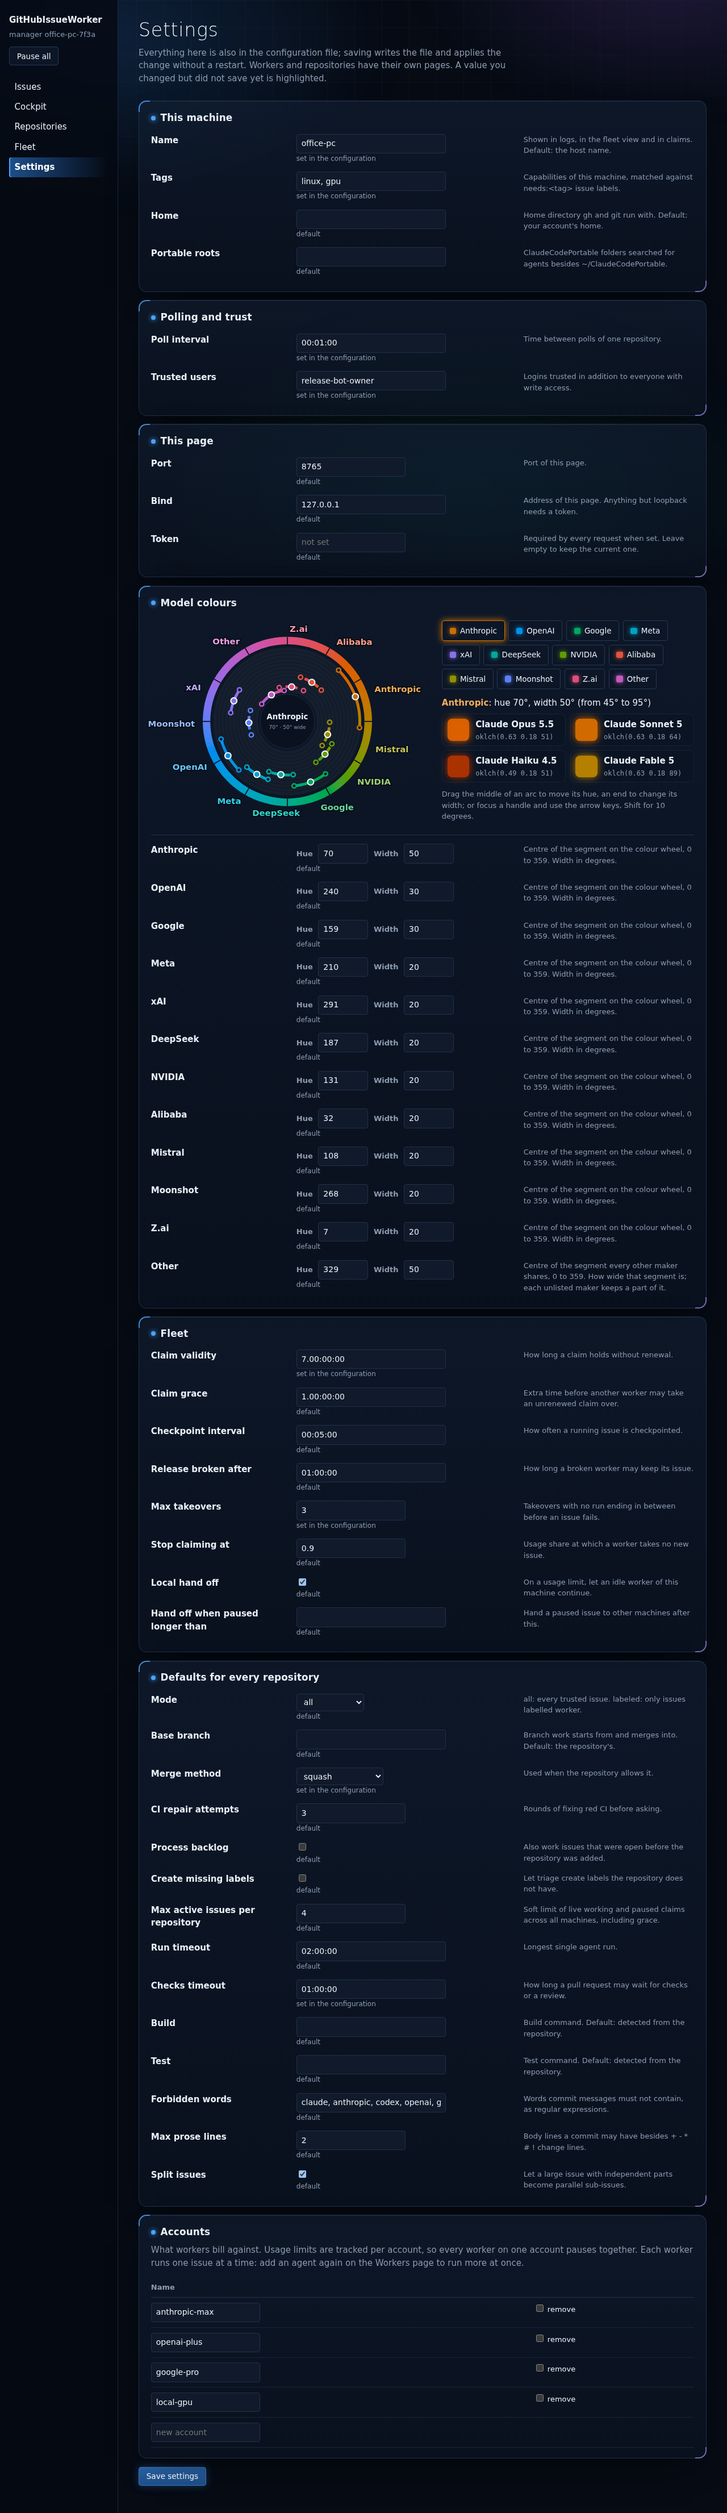
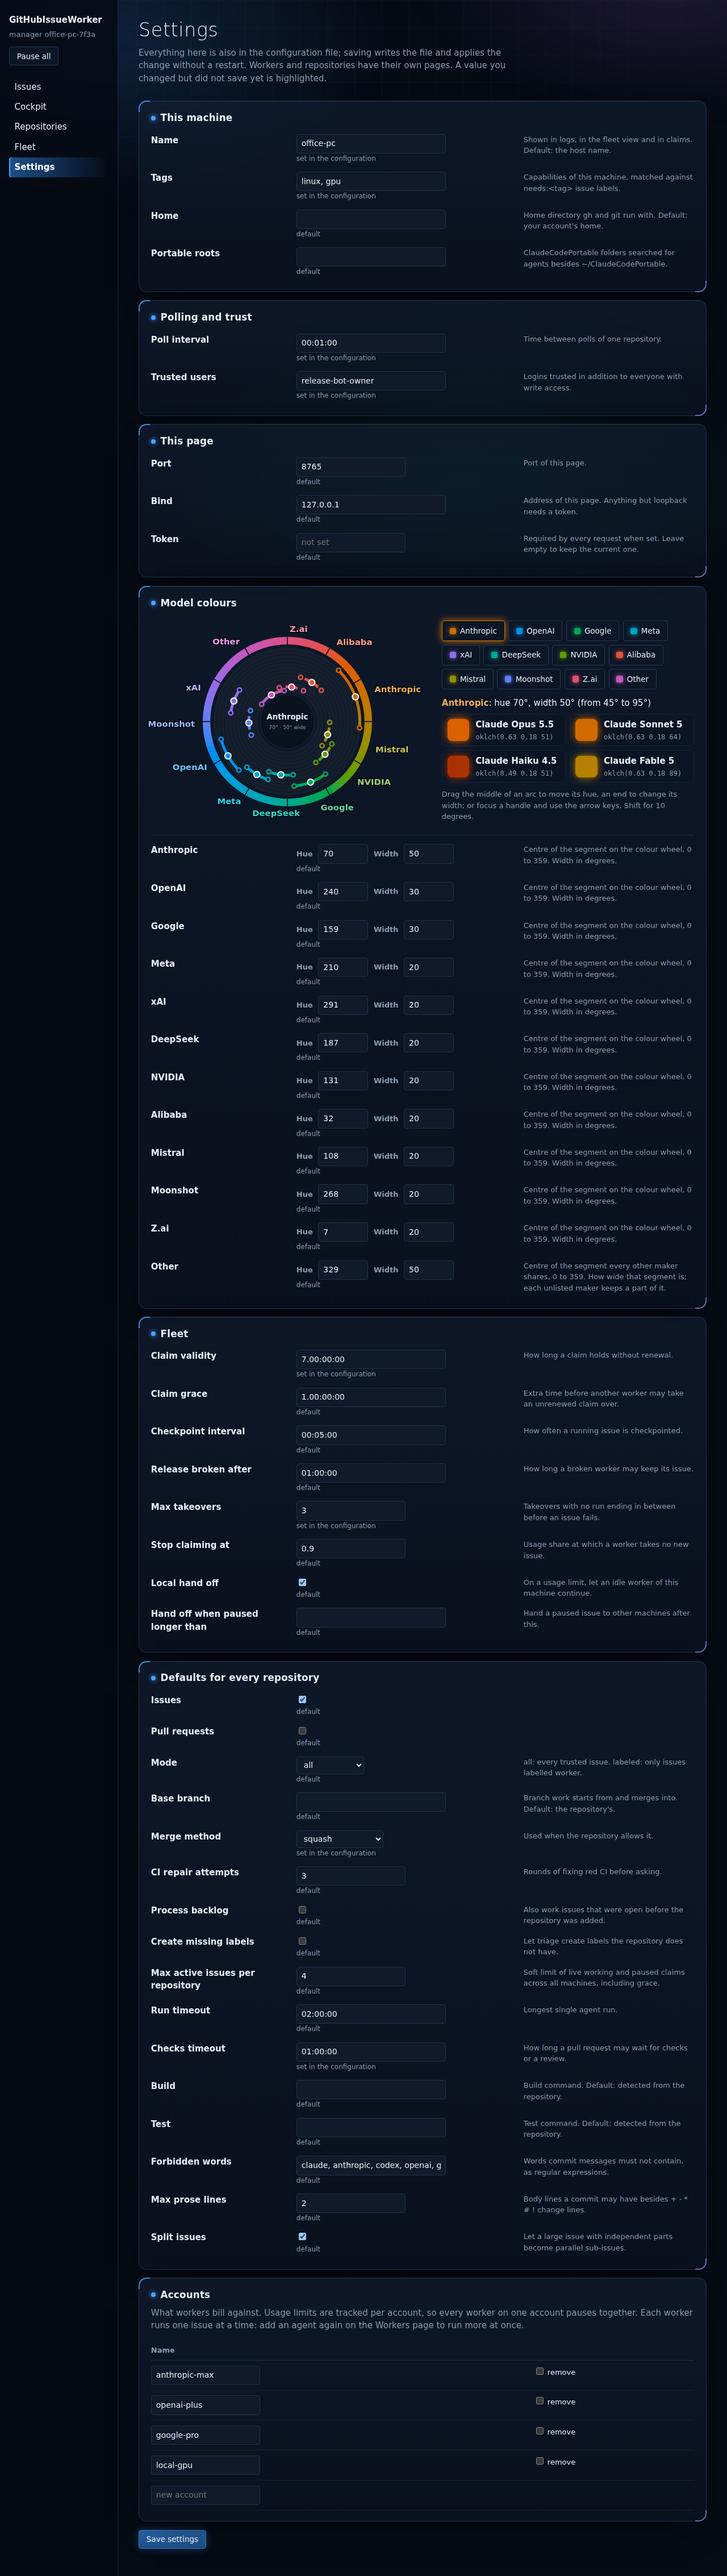
+ Switch issues and pull requests on or off per repository (#133)
+ issues (default true) and pullRequests (default false) under defaults and per repository (F16.1)
+ issues: false ignores issue events; work this manager already holds still finishes
* the watch carries both switches and an applied configuration updates them live
Refs #129

Changed region(s): [[0.1875, 0.0, 0.9375, 0.9984], [0.7188, 0.0312, 0.9375, 0.156], [0.0, 0.0, 0.0938, 0.0936]]

diff --git a/tests/test_wiring.py b/tests/test_wiring.py
@@ -965,3 +965,35 @@ def test_given_an_agent_that_updated_itself_when_workers_refresh_then_its_new_ve
     answer[0] = "2.1.332 (Claude Code)"
     runtime.refresh_auth()
     assert runtime.slots[0].version == "2.1.332 (Claude Code)"
+
+
+@pytest.mark.parametrize(
+    ("defaults", "override", "expected"),
+    [({}, None, True), ({"issues": False}, None, False), ({"issues": False}, True, True)],
+)
+def test_given_the_issues_switch_when_watching_then_the_override_wins(
+    tmp_path: Path, defaults: dict[str, bool], override: bool | None, expected: bool
+) -> None:
+    from tests.application.test_manager import Fixture
+
+    repository: dict[str, object] = {"repository": "o/r"}
+    if override is not None:
+        repository["issues"] = override
+    config = parse(json.dumps({"defaults": defaults, "repositories": [repository]}))
+    runtime = Runtime(
+        config=config,
+        home=tmp_path,
+        api=SimpleNamespace(clock=FakeClock(datetime(2026, 10, 30, tzinfo=UTC))),  # type: ignore[arg-type]
+        state=JsonStateStore(tmp_path / "state.json"),
+        manager_id="m",
+        workspace=FakeWorkspace(tmp_path),  # type: ignore[arg-type]
+    )
+    assert runtime.watch(config.repositories[0]).issues is expected
+
+    flipped = parse(
+        json.dumps({"defaults": {"issues": not expected}, "repositories": [{"repository": "o/r"}]})
+    )
+    f = Fixture([])
+    f.manager.repositories = [runtime.watches["o/r"]]
+    runtime.apply(flipped, f.manager)
+    assert runtime.watches["o/r"].issues is (not expected)

diff --git a/src/github_issue_worker/wiring.py b/src/github_issue_worker/wiring.py
@@ -273,6 +273,11 @@ def worker_version(worker: WorkerSettings, home: Path) -> str:
     return version_of(resolve(worker, home))
 
 
+def _switch(override: bool | None, default: bool) -> bool:
+    """A repository's own setting, else the default's (F16.1)."""
+    return default if override is None else override
+
+
 @dataclass
 class Runtime:
     config: Configuration
@@ -311,6 +316,8 @@ class Runtime:
                 coordinator=coordinator,
                 store=store,
                 mode=settings.mode or self.config.defaults.mode,
+                issues=_switch(settings.issues, self.config.defaults.issues),
+                pull_requests=_switch(settings.pull_requests, self.config.defaults.pull_requests),
                 process_backlog=bool(
                     settings.process_backlog
                     if settings.process_backlog is not None
@@ -541,6 +548,8 @@ class Runtime:
                 watch = self.watches[name]
                 watch.settings = repository_run(config, settings)
                 watch.mode = settings.mode or config.defaults.mode
+                watch.issues = _switch(settings.issues, config.defaults.issues)
+                watch.pull_requests = _switch(settings.pull_requests, config.defaults.pull_requests)
                 policy = replace(watch.coordinator.policy, max_takeovers=config.fleet.max_takeovers)
                 watch.coordinator = replace(watch.coordinator, policy=policy)
                 watch.max_active_issues_per_repository = (

diff --git a/src/github_issue_worker/application/manager.py b/src/github_issue_worker/application/manager.py
@@ -102,6 +102,10 @@ class RepositoryWatch:
     store: ClaimStore
     mode: Literal["all", "labeled"] = "all"
     process_backlog: bool = False
+    issues: bool = True
+    """False: issue events are ignored, nothing is labelled or claimed; held work finishes."""
+    pull_requests: bool = False
+    """Work open pull requests the manager did not open (F16)."""
     stopping: threading.Event = field(default_factory=threading.Event)
     settings: object = None
     """Whatever the run factory needs for this repository (merge method, commands, ...)."""
@@ -260,6 +264,9 @@ class Manager:
 
         touched = {issue.number for issue in result.issues} | {c.issue for c in result.comments}
         pending = self._pending.setdefault(watch.name, set())
+        if not watch.issues:
+            touched = set()  # F16.1: only the work this manager already holds goes on
+            pending.clear()
         if self.paused():
             pending |= touched
             return

diff --git a/tests/application/test_manager.py b/tests/application/test_manager.py
@@ -919,3 +919,23 @@ def test_given_a_paused_manager_when_it_holds_a_claim_then_the_work_does_not_con
     paused = False
     f.manager.tick()
     assert len(f.runs) == 2
+
+
+def test_given_issues_switched_off_when_an_issue_arrives_then_it_is_neither_labelled_nor_run() -> (
+    None
+):
+    f = Fixture([slot("claude")])
+    f.watch.issues = False
+    f.new_issues(issue(1))
+    f.manager.tick()
+    assert not f.runs and f.store.current(1) is None and f.host.worker_label == {}
+
+
+def test_given_issues_switched_off_when_one_is_held_then_its_work_still_finishes() -> None:
+    f = Fixture([slot("claude")], verdicts=[Verdict("paused")])
+    f.new_issues(issue(1))
+    f.manager.tick()
+    assert len(f.runs) == 1 and f.store.current(1).state.holds
+    f.watch.issues = False
+    f.manager.tick()
+    assert len(f.runs) == 2  # the paused claim continues to its end

diff --git a/src/github_issue_worker/configuration.py b/src/github_issue_worker/configuration.py
@@ -204,6 +204,10 @@ class FleetSettings(_Settings):
 
 
 class DefaultsSettings(_Settings):
+    issues: bool = True
+    """Work the repository's issues (F16.1)."""
+    pull_requests: bool = False
+    """Also work open pull requests the manager did not open (F16.1)."""
     mode: Literal["all", "labeled"] = "all"
     base_branch: str | None = None
     merge_method: Literal["squash", "merge", "rebase"] = "squash"
@@ -224,6 +228,8 @@ class RepositorySettings(_Settings):
     """A watched repository. Every key but ``repository`` overrides the same key of ``defaults``."""
 
     repository: RepositoryName
+    issues: bool | None = None
+    pull_requests: bool | None = None
     mode: Literal["all", "labeled"] | None = None
     base_branch: str | None = None
     merge_method: Literal["squash", "merge", "rebase"] | None = None

diff --git a/tests/test_configuration.py b/tests/test_configuration.py
@@ -379,3 +379,15 @@ def test_given_an_invalid_old_run_count_when_migrating_then_it_counts_as_one(val
 
 def test_given_no_accounts_when_migrating_then_nothing_changes() -> None:
     assert validate({}).workers == []
+
+
+def test_given_no_switches_when_parsed_then_issues_are_worked_and_pull_requests_not() -> None:
+    config = parse('{"repositories": [{"repository": "o/a"}]}')
+    assert config.defaults.issues is True and config.defaults.pull_requests is False
+    assert config.repositories[0].issues is None and config.repositories[0].pull_requests is None
+    switched = parse(
+        '{"defaults": {"pullRequests": true},'
+        ' "repositories": [{"repository": "o/a", "issues": false}]}'
+    )
+    assert switched.defaults.pull_requests is True
+    assert switched.repositories[0].issues is False

diff --git a/README.md b/README.md
@@ -1515,7 +1515,7 @@ operational items, demonstrated on a real repository. Commits that implement an 
 
 ### F16 — Pull requests
 
-- [ ] 🟥 **F16.1** `issues` (default `true`) and `pullRequests` (default `false`), under `defaults`
+- [x] 🟥 **F16.1** `issues` (default `true`) and `pullRequests` (default `false`), under `defaults`
   and per repository, editable in the file, the CLI and the UI. `issues: false` ignores issues
   entirely; `pullRequests: false` ignores every pull request the manager did not open.
 - [ ] 🟥 **F16.2** Polls open pull requests (`state=open`, `sort=updated`) with `If-None-Match`,
